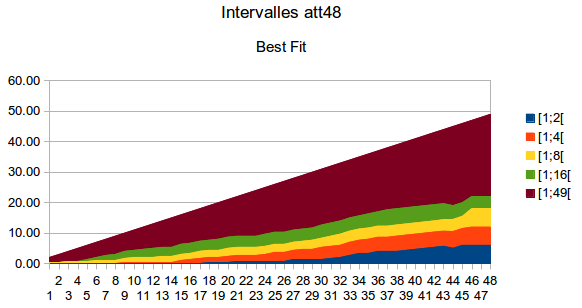
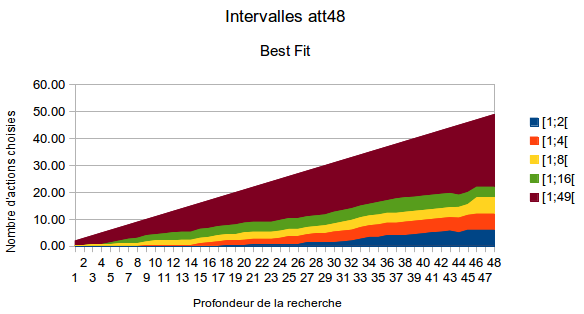
added legend to graphs + switched the bottom part of the report to present tense

diff --git a/report/report.tex b/report/report.tex
@@ -424,13 +424,22 @@ trouvés, accompagné du ratio voisins améliorants/voisins explorés.
 \pagebreak
 \section{Analyse des résultats}
 
-\includegraphics[width=\textwidth]{images/att48-intervals-first-fit.png}
-\includegraphics[width=\textwidth]{images/att48-intervals-best-fit.png}
-\includegraphics[width=\textwidth]{images/att48-intervals-worst-fit.png}
+\begin{center}
+  \includegraphics[width=\textwidth]{images/att48-intervals-first-fit.png}
+\end{center}
+
+\begin{center}
+  \includegraphics[width=\textwidth]{images/att48-intervals-best-fit.png}
+\end{center}
+
+\begin{center}
+  \includegraphics[width=\textwidth]{images/att48-intervals-worst-fit.png}
+\end{center}
 
 %insert graphs
 
-TODO: graphes intervalles pour ali535 \& bier127 (reste ds annexe) + graphes stats + commentaires
+TODO: graphes intervalles pour ali535 \& bier127 (reste ds annexe) + graphes
+stats + commentaires
 
 \section{Espérance d'amélioration - Implémentation d'un système de décision}
 
@@ -440,7 +449,7 @@ comportement de nos opérateurs et stratégie, et ainsi déterminer un système
 permettant d'effectuer les recherches de manière plus intelligente. L'idée
 directrice est d'avoir un ensemble de dispositifs permettant de jauger la
 pertinence d'un voisinage donné en fonction des voisinages précédemment choisis.
-%rechercher de manière intelligente / réduire espace de recherche
+
 
 \begin{figure}[h]
   \begin{tabular}{lll}
@@ -586,7 +595,8 @@ grands = probabilité plus importante), on espère limiter le nombre d'analyses
     \Require $intervalles$ : ensemble d'Intervalle
     \Require $probleme$ : Problème
     \State 
-    \Comment Note: $PROBA\_MIN$ : constante déterminant la probabilité minimum qu'un
+    \Comment Note: $PROBA\_MIN$ : constante déterminant la probabilité minimum
+qu'un
 intervalle peut avoir avant le début de la recherche (par défaut 0,3)
     \State
     \State $nbrIntervalles \gets intervalles.taille$
@@ -594,7 +604,8 @@ intervalle peut avoir avant le début de la recherche (par défaut 0,3)
     \State $probabilite \gets 1.0$
     \ForAll{$intervalle \gets intervalles$}
       \State $intervalle.probabilite \gets probabilite$
-      \State $probabilite \gets pas * (intervalle.borneMax - intervalle.borneMin)$
+      \State $probabilite \gets pas * (intervalle.borneMax -
+intervalle.borneMin)$
     \EndFor
   \end{algorithmic}
   \caption{Ajustement des probabilités de départ}
@@ -732,11 +743,11 @@ que \textit{ChoiceMaker}.
 \section{Organisation}
 \subsection{Contrôle d'avancement}
 
-\subsubsection{Gestion de version}%topres v
+\subsubsection{Gestion de version}
 \paragraph{}
   Afin de pouvoir garder un contrôle optimal sur les changements et évolutions
-du projet, un système de contrôle de version Git, avec un dépôt distant hébergé
-sur Github, a été adopté. Nous avons employé une approche type "commits
+du projet, nous avons adopté un système de contrôle de version Git, avec un
+dépôt distant hébergé sur Github. Nous employons une approche type "commits
 courants, commits courts", de diviser nos changements au mieux - ce qui facilite
 les réversions lorsque l'on en a besoin.
 
@@ -747,15 +758,15 @@ d'avoir une vision d'ensemble précise de l'évolution de l'application.
 \subsubsection{Rapports hebdomadaires et réunions}
 \paragraph{}
   Chaque semaine, un compte-rendu de l'avancement, des difficultés rencontrées,
-résultats obtenus et des évolutions à venir a été rédigé, accompagné de
-réunions à chaque fois qu'une étape importante était atteinte - implémentation
-des opérateurs et stratégie, des traces d'exécution, de la prise de décision...
+résultats obtenus et des évolutions à venir est rédigé, accompagné de réunions
+dès qu'une étape importante est atteinte - implémentation des opérateurs et
+stratégie, des traces d'exécution, de la prise de décision...
 
 
 \subsection{Contrôle de non-régression}
 %tests unitaires
 \paragraph{}
-  La quasi-totalité des méthodes, fonctionnalités et bugs ont été contrôlés par
+  La quasi-totalité des méthodes, fonctionnalités et bugs sont contrôlés par
 une batterie de tests unitaires, mettant parfois en évidence une régression ou
 un comportement incorrecte. Ainsi, à chaque révision majeure ou en fin de
 journée, on lance l'ensemble des tests pour vérifier que rien n'a cassé (y
@@ -763,7 +774,7 @@ compris parfois les tests eux-mêmes).
 
 %retro compatibilité
 \paragraph{}
-  On s'est également efforcé de maintenir un certain degré de rétrocompatibilité
+  On s'efforce également de maintenir un certain degré de rétrocompatibilité
 : la plupart des nouvelles méthodes ou algorithmes doivent être activés lors de
 l'appel au programme en ligne de commande. Heureusement, le script de lancement
 permet de maintenir une bonne utilisabilité de l'application malgré l'inflation
@@ -773,18 +784,18 @@ du nombre de paramètres optionnels.
 %valgrind, callgrind & autre
 \paragraph{}
   Dans le but d'améliorer la vitesse d'exécution, l'utilisation mémoire de
-l'application, et corriger des problèmes potentiels, nous avons tiré avantage
-des capacités des \textbf{valgrind}, \textbf{callgrind} ainsi qu'une poignée de
+l'application, et corriger des problèmes potentiels, nous tirons avantage des
+capacités de \textbf{valgrind}, \textbf{callgrind} ainsi qu'une poignée de
 contrôles manuels pour obtenir une image précise du comportement de notre
-programme. Ces informations nous ont ensuite permis de commencer à optimiser
-certaines sections du code.
+programme. Ces informations nous permettent ensuite d'optimiser certaines
+sections du code lorsque le besoin se fait sentir.
 
 \paragraph{}
-  Cette opération a donné naissance à certaines structures allégées, comme des
+  Ce type opération a donné naissance à certaines structures allégées, comme des
 voisins simplifiés, ne contenant que les informations essentielles aux classes
-dont elles sont attributs. On s'est également efforcé de libérer dès que
-possible les données ayant dépassé leur période d'utilité, rendant le programme
-beaucoup plus robuste et capable de tenir la charge sur de grandes instances.
+dont elles sont attributs. On s'efforce de libérer dès que possible les données
+ayant dépassé leur période d'utilité, rendant le programme beaucoup plus robuste
+et capable de tenir la charge sur de grandes instances.
 
 
 \section{Difficultés techniques}
